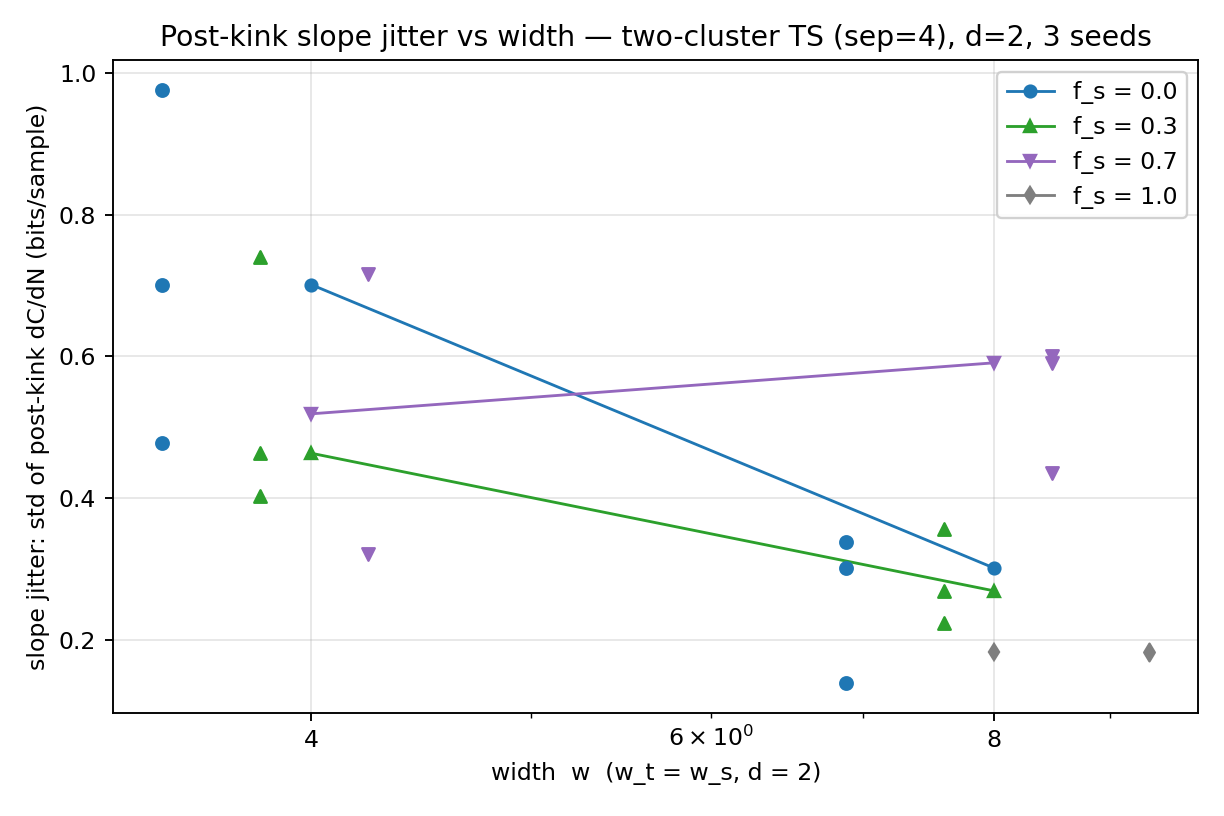
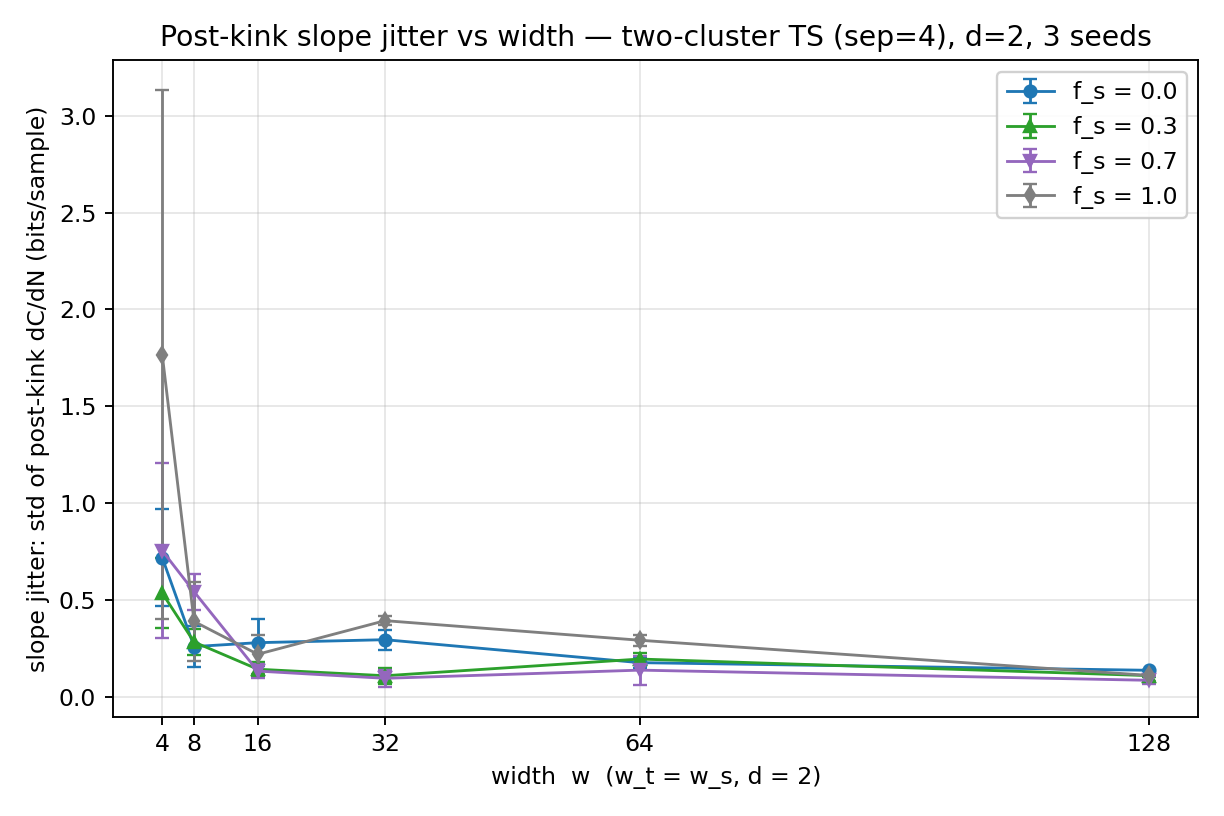
Add width_ts_sweep full report and complete figures (w=4..128)

diff --git a/experiments/quantify-structure-in-data/20260821_2032_width_ts_sweep/summary.html b/experiments/quantify-structure-in-data/20260821_2032_width_ts_sweep/summary.html
@@ -1,0 +1,172 @@
+<!DOCTYPE html>
+<html lang="zh-CN">
+<head>
+<meta charset="UTF-8">
+<title>实验总结 — 双簇 Teacher-Student 协议下 C~N 曲线随宽度的变化</title>
+<style>
+  body { font-family: "Segoe UI", "Microsoft YaHei", sans-serif; max-width: 960px;
+         margin: 0 auto; padding: 24px 32px; color: #222; line-height: 1.65; }
+  h1 { font-size: 1.5em; border-bottom: 2px solid #333; padding-bottom: 8px; }
+  h2 { font-size: 1.2em; margin-top: 2em; border-bottom: 1px solid #bbb;
+       padding-bottom: 4px; }
+  h3 { font-size: 1.05em; margin-top: 1.4em; }
+  table { border-collapse: collapse; margin: 12px 0; font-size: 0.92em; }
+  th, td { border: 1px solid #999; padding: 5px 10px; text-align: left; }
+  th { background: #eee; }
+  code { background: #f2f2f2; padding: 1px 5px; border-radius: 3px;
+         font-family: Consolas, monospace; font-size: 0.9em; }
+  pre { background: #f6f6f6; border: 1px solid #ddd; border-radius: 6px;
+        padding: 12px 16px; overflow-x: auto; font-size: 0.85em; }
+  pre code { background: none; padding: 0; }
+  figure { margin: 18px 0; text-align: center; }
+  figure img { max-width: 100%; border: 1px solid #ddd; border-radius: 4px; }
+  figcaption { font-size: 0.95em; color: #333; margin-top: 8px; }
+  figcaption .fig-label { font-weight: 700; color: #111; margin-right: 6px; }
+  .note { background: #fbf8e8; border-left: 4px solid #d8c34a;
+          padding: 8px 14px; margin: 12px 0; font-size: 0.92em; }
+  ul { margin: 6px 0; }
+</style>
+</head>
+<body>
+
+<h1>实验总结：双簇 Teacher-Student 协议下 C~N 曲线随 Teacher/Student 宽度的变化</h1>
+
+<p><b>运行目录</b>：<code>experiments/20260821_2032_width_ts_sweep</code>（远程 cephfs）；
+<b>脚本</b>：<code>width_ts_sweep.py</code>（run 目录内留有副本）；<b>日期</b>：2026-08-21 至 2026-08-22。</p>
+
+<h2>1. 实验任务</h2>
+<p>在双簇（two-cluster）teacher-student 协议下，当 teacher 与 student 等宽（w<sub>t</sub> = w<sub>s</sub> = w）、深度均为 2 时，对 6 个宽度 w ∈ {4, 8, 16, 32, 64, 128}、4 个结构比例 f<sub>s</sub> ∈ {0.0, 0.3, 0.7, 1.0}，扫描数据集大小 N，记录训练结束后学生记住的信息量 C 随 N 变化的曲线（C~N 曲线），并量化曲线拐点之后相邻点斜率的抖动（slope jitter）。</p>
+
+<h2>2. 实验设置（协议）</h2>
+
+<h3>2.1 数据生成（双簇协议，与 20260819 twocluster 运行一致）</h3>
+<ul>
+  <li><b>输入维数 D = 10，类别数 V = 10</b>（log<sub>2</sub>V ≈ 3.322 bits/样本）。</li>
+  <li>每个 seed 随机取一个单位向量 u，两个簇中心为 μ<sub>A</sub> = +(sep/2)·u、μ<sub>B</sub> = −(sep/2)·u，<b>sep = 4.0</b>。样本 x = μ<sub>c</sub> + z，z ~ N(0, I<sub>D</sub>)。由于两簇中心分离，样本属于哪个簇可以从 x 上读出来。</li>
+  <li>训练集共 N 个样本：前 round(f<sub>s</sub>·N) 个来自簇 A（"结构化"部分），标签由 teacher 网络给出；其余 N − round(f<sub>s</sub>·N) 个来自簇 B（"随机"部分），标签为均匀随机整数。</li>
+  <li><b>验证集</b>：200 个来自簇 A 的新样本 + teacher 标签。</li>
+  <li>数据非嵌套：每个 (seed, N) 独立抽样；每个 seed 对应一个独立初始化的 teacher。</li>
+  <li>随机数种子（与 20260819 运行逐行一致）：teacher 初始化 <code>torch.manual_seed(seed)</code>；簇中心生成器 <code>seed*7919+13</code>；训练数据生成器 <code>seed*1000003+N</code>；验证集生成器 <code>seed+777</code>；student 初始化 <code>set_seed(seed+1)</code>。</li>
+</ul>
+
+<h3>2.2 模型</h3>
+<ul>
+  <li><b>Teacher（TeacherMLPLN）</b>：bias-free Linear → LayerNorm → ReLU 的隐层块 × d<sub>t</sub> = 2，之后接 BatchNorm1d 头（BN 头）+ bias-free Linear 投影到 V 类。BN 头在 batch 维上对每个类别的 logit 归一化，使 teacher 的 argmax 标签近似类别平衡（每样本标签信息量 ≈ log<sub>2</sub>V）。teacher 参数生成后冻结。</li>
+  <li><b>Student（StudentMLPLN）</b>：同样的 Linear → LayerNorm → ReLU 隐层块 × d<sub>s</sub> = 2，最后直接接 bias-free Linear 读出到 V 类（无 BN 头）。</li>
+  <li>两个模型类定义逐行复制自 20260819 运行的 <code>run.py</code>（当时 cephfs 上的 <code>protocols/strucfrac.py</code> 版本较旧，不含 LN 模型，因此本脚本自包含）。</li>
+  <li><b>teacher 标签的 batch 依赖</b>：teacher 在生成标签时置于 train 模式，对"簇 A 训练样本 + 验证集样本"整体做一次前向，BN 头的 batch 统计由这批数据计算（与 N 无关的部分固定）；生成标签后 teacher 回到 eval 模式。</li>
+</ul>
+
+<h3>2.3 训练</h3>
+<ul>
+  <li>全批量 Adam，lr = 1e-3，cosine 衰减到 0，<b>30000 epochs，无早停</b>。</li>
+  <li>训练过程中在约 60 个对数间隔的 checkpoint 记录完整曲线：train loss、结构化/随机部分的分别 loss（l1/l2）与精确记忆比例（em1/em2）、验证 loss 与验证准确率。</li>
+</ul>
+
+<h3>2.4 运行规模与执行</h3>
+<ul>
+  <li><b>seeds</b>：{1000, 1007, 1014}；探针阶段只用 seed = 1000。</li>
+  <li><b>总 run 数 708</b>：w ∈ {4,8,16,32} 的 468 runs 在 60 核 CPU 机器（10.230.1.20）上以 28 进程池完成（每进程 torch 2 线程）；w ∈ {64,128} 的 240 runs 在 H100 GPU 机器（10.230.1.34）上以 12 进程池共用一张 GPU 完成。</li>
+  <li>每 (w, f<sub>s</sub>) 组完成后立即将 per-run JSON 追加写入 <code>results/main_runs.json</code> 作为 checkpoint，中断后续跑自动跳过已完成的组。</li>
+</ul>
+
+<h2>3. 代码实现（两阶段网格）</h2>
+
+<h3>3.1 阶段一：探针（probe）</h3>
+<p>目的：为每个宽度定位 f<sub>s</sub> = 0（纯随机标签）曲线的容量拐点 N*<sub>0</sub>。对每个宽度，在 [max(16, w), 200·w] 内取 12 个对数等间隔的 N，只跑 f<sub>s</sub> = 0、seed = 1000（每宽度 12 runs，共 72 runs）。对得到的 C~N 曲线做连续两段线性拟合（见 4.2），拟合的拐点位置即 N*<sub>0</sub>。实测结果：</p>
+<table>
+  <tr><th>w</th><th>4</th><th>8</th><th>16</th><th>32</th><th>64</th><th>128</th></tr>
+  <tr><td>N*<sub>0</sub></td><td>47</td><td>130</td><td>466</td><td>932</td><td>3018</td><td>9769</td></tr>
+  <tr><td>拟合 R²</td><td>0.63</td><td>0.95</td><td>0.98</td><td>0.99</td><td>0.999</td><td>0.999</td></tr>
+</table>
+
+<h3>3.2 阶段二：主扫描（main）</h3>
+<p>每个宽度的 N 网格围绕自己的 N*<sub>0</sub> 生成，共 10 个点（w = 4 时因下限 16 合并为 9 点），同一宽度内 4 个 f<sub>s</sub> 共享该网格：</p>
+<ul>
+  <li>拐点前 3 点：N*<sub>0</sub> × {1/8, 1/4, 1/2}（下限 16）；</li>
+  <li>拐点处 1 点：N*<sub>0</sub>；</li>
+  <li>拐点后 6 点：N*<sub>0</sub> × {1.5, 2.1, 2.9, 4.1, 5.8, 8.0}（上限 80000）。</li>
+</ul>
+<table>
+  <tr><th>w</th><th>N 网格（实际取整后）</th></tr>
+  <tr><td>4</td><td>16, 24, 47, 70, 99, 136, 193, 273, 376</td></tr>
+  <tr><td>8</td><td>16, 32, 65, 130, 195, 273, 377, 533, 754, 1040</td></tr>
+  <tr><td>16</td><td>58, 116, 233, 466, 699, 979, 1351, 1911, 2703, 3728</td></tr>
+  <tr><td>32</td><td>116, 233, 466, 932, 1398, 1957, 2703, 3821, 5406, 7456</td></tr>
+  <tr><td>64</td><td>377, 754, 1509, 3018, 4527, 6338, 8752, 12374, 17504, 24144</td></tr>
+  <tr><td>128</td><td>1221, 2442, 4884, 9769, 14654, 20515, 28330, 40053, 56660, 78152</td></tr>
+</table>
+<p>每个 (w, f<sub>s</sub>, N) 组合跑 3 个 seed，共 6 宽 × 4 f<sub>s</sub> × ~10 N × 3 seeds ≈ 708 runs（含探针 72）。</p>
+
+<h3>3.3 输出文件</h3>
+<ul>
+  <li><code>results/probe_runs.json</code>、<code>results/main_runs.json</code>：每个 run 一条记录，含最终 train loss、C_bits、分区指标、val 指标、运行时长，以及全部 checkpoint 的完整 loss 曲线；</li>
+  <li><code>results/grids.json</code>：各宽度的 N*<sub>0</sub> 与主网格；</li>
+  <li><code>results/summary.json</code>：每条 (w, f<sub>s</sub>, seed) 曲线的分段拟合参数与 jitter；</li>
+  <li><code>figures/</code>：8 张图（见第 5 节）。</li>
+</ul>
+
+<h2>4. 数据与量的定义</h2>
+
+<h3>4.1 学习比特数 C（C~N 曲线的纵轴）</h3>
+<p>对每个 run，取训练结束（30000 epochs）时的全训练集交叉熵 L<sub>train</sub>，定义每样本学习比特数与总量：</p>
+<pre><code>bits/sample = max(ln V − L_train, 0) / ln 2
+C (bits)    = bits/sample × N</code></pre>
+<p>其中 ln V 是 V 类均匀标签的熵（交叉熵的随机水平）。L<sub>train</sub> 越低说明学生对训练标签拟合得越死，C 越大。每条 C~N 曲线就是一个 (w, f<sub>s</sub>, seed) 下约 10 个 N 值对应的 C 值连成的折线。</p>
+
+<h3>4.2 连续两段线性拟合（虚线与拐点的来源）</h3>
+<p>对每条 C~N 曲线，在所有内部网格点上搜索候选拐点 x*，用设计矩阵 [1, N, max(N−x*, 0)] 做最小二乘，取残差最小的 x* 作为拐点 N*。输出参数：segment-1 斜率 s1、segment-2 斜率 s2、拐点位置、R²。图中的同色虚线画的是拟合的 segment-2 段（从 N* 到最大 N）。</p>
+
+<h3>4.3 斜率抖动（slope jitter）</h3>
+<p>对一条 C~N 曲线，取拐点 N* <b>之后</b>的所有网格点，计算相邻两点之间的斜率 s<sub>i</sub> = (C<sub>i+1</sub> − C<sub>i</sub>) / (N<sub>i+1</sub> − N<sub>i</sub>)（单位 bits/sample），jitter = 这些斜率的标准差。每条曲线用自己的拟合拐点；若拟合退化（拐点落在网格末尾、拐后不足 3 点，f<sub>s</sub> = 1 的曲线常如此），则退回使用同宽度 f<sub>s</sub> = 0 曲线的拐点作为阈值。jitter 图中每个数据点是 3 个 seed 的均值，error bar 为 3 个 seed 的标准差。</p>
+<div class="note">注意：各宽度网格的拐后点间隔 ΔN 随宽度同比放大（网格按 N*<sub>0</sub> 的倍数生成），大宽度下每个斜率是对更大 N 窗口的平均。</div>
+
+<h3>4.4 训练损失斜率抖动（train-loss slope jitter）</h3>
+<p>C 由 L<sub>train</sub> 乘以 N 得到，逐点噪声随之被放大 N 倍。为去掉这一放大作用，对同一批 run 直接取训练结束时的 L<sub>train</sub> 对 N 的折线，在拐点之后（阈值与 4.3 相同，含 f<sub>s</sub> = 0 回退）计算相邻点斜率 s<sub>i</sub> = (L<sub>i+1</sub> − L<sub>i</sub>) / (N<sub>i+1</sub> − N<sub>i</sub>)，取标准差，单位 nats/sample（L<sub>train</sub> 为自然对数交叉熵）。</p>
+
+<h2>5. 图</h2>
+
+<h3>5.1 C~N 曲线（每宽度一张，共 6 张）</h3>
+<ul>
+  <li><b>横轴</b>：数据集大小 N（线性）；<b>纵轴</b>：学习比特数 C（bits）。</li>
+  <li><b>实线+标记</b>：seed = 1000 的实测数据点，4 种颜色/标记对应 4 个 f<sub>s</sub>（蓝圆 0.0、绿三角 0.3、紫倒三角 0.7、灰菱形 1.0）。</li>
+  <li><b>同色虚线</b>：该曲线连续两段线性拟合的 segment-2 段。</li>
+</ul>
+
+<figure><img src="figures/C_vs_N_by_fs_w4.png" alt="w=4"><figcaption><span class="fig-label">Figure 1.</span>C~N 曲线，w = 4</figcaption></figure>
+<figure><img src="figures/C_vs_N_by_fs_w8.png" alt="w=8"><figcaption><span class="fig-label">Figure 2.</span>C~N 曲线，w = 8</figcaption></figure>
+<figure><img src="figures/C_vs_N_by_fs_w16.png" alt="w=16"><figcaption><span class="fig-label">Figure 3.</span>C~N 曲线，w = 16</figcaption></figure>
+<figure><img src="figures/C_vs_N_by_fs_w32.png" alt="w=32"><figcaption><span class="fig-label">Figure 4.</span>C~N 曲线，w = 32</figcaption></figure>
+<figure><img src="figures/C_vs_N_by_fs_w64.png" alt="w=64"><figcaption><span class="fig-label">Figure 5.</span>C~N 曲线，w = 64</figcaption></figure>
+<figure><img src="figures/C_vs_N_by_fs_w128.png" alt="w=128"><figcaption><span class="fig-label">Figure 6.</span>C~N 曲线，w = 128</figcaption></figure>
+
+<h3>5.2 斜率抖动图（2 张，同一数据的两种纵轴）</h3>
+<ul>
+  <li><b>横轴</b>：宽度 w（线性，w<sub>t</sub> = w<sub>s</sub>，d = 2）；<b>纵轴</b>：slope jitter（bits/sample），第一张线性、第二张对数。</li>
+  <li><b>每个宽度 4 个点</b>：对应 4 个 f<sub>s</sub>（颜色/标记同上），点的纵坐标为 3 个 seed 的 jitter 均值，<b>error bar</b> 为 3 个 seed 的标准差。</li>
+  <li><b>线</b>：同一 f<sub>s</sub> 的点按宽度顺序相连。</li>
+  <li>每个点参与计算的斜率个数记录在 <code>results/summary.json</code> 的 <code>n_slopes</code> 字段（f<sub>s</sub> 越大，拐点越靠右，拐后点数越少）。</li>
+</ul>
+
+<figure><img src="figures/slope_jitter_vs_width.png" alt="jitter linear"><figcaption><span class="fig-label">Figure 7.</span>slope jitter vs width（纵轴线性）</figcaption></figure>
+<figure><img src="figures/slope_jitter_vs_width_logy.png" alt="jitter log-y"><figcaption><span class="fig-label">Figure 8.</span>slope jitter vs width（纵轴对数）</figcaption></figure>
+
+<h3>5.3 训练损失斜率抖动图（2 张，同一数据的两种纵轴）</h3>
+<ul>
+  <li><b>横轴</b>：宽度 w（线性）；<b>纵轴</b>：train-loss slope jitter（nats/sample），第一张线性、第二张对数。</li>
+  <li>点、error bar、连线的含义与 5.2 相同；拐点阈值与 C 版 jitter 完全一致（含 f<sub>s</sub> = 0 回退）。</li>
+</ul>
+
+<figure><img src="figures/slope_jitter_loss_vs_width.png" alt="loss jitter linear"><figcaption><span class="fig-label">Figure 9.</span>train-loss slope jitter vs width（纵轴线性）</figcaption></figure>
+<figure><img src="figures/slope_jitter_loss_vs_width_logy.png" alt="loss jitter log-y"><figcaption><span class="fig-label">Figure 10.</span>train-loss slope jitter vs width（纵轴对数）</figcaption></figure>
+
+<h2>6. 数值记录（seed = 1000，来自 summary.json 与探针拟合）</h2>
+<ul>
+  <li>f<sub>s</sub> = 0 曲线的容量拐点（探针拟合）：N*<sub>0</sub> = 47 / 130 / 466 / 932 / 3018 / 9769（w = 4/8/16/32/64/128）；探针拟合的 segment-1 斜率 s1 ≈ 2.1 / 3.1 / 2.8 / 3.5 / 3.3 / 3.2 bits/sample（log<sub>2</sub>V = 3.32）。</li>
+  <li>f<sub>s</sub> = 0 曲线在最大 N 处的 C 值（约等于平台高度）：w=4 约 100 bits、w=8 约 450、w=16 约 1100、w=32 约 3000、w=64 约 9000、w=128 约 26000 bits。</li>
+  <li>f<sub>s</sub> = 1 曲线在各自最大 N 处的 C/N：w=16 约 2.66、w=32 约 2.95、w=64 约 3.07、w=128 约 3.24 bits/sample（log<sub>2</sub>V = 3.32）。</li>
+  <li>jitter 均值（3 seeds）：w=128 处 4 个 f<sub>s</sub> 均落在约 0.08–0.14 bits/sample；w=4 的 f<sub>s</sub> = 1.0 均值为 1.77（seed 间标准差约 1.4）。</li>
+</ul>
+
+</body>
+</html>

diff --git a/experiments/quantify-structure-in-data/index.html b/experiments/quantify-structure-in-data/index.html
@@ -63,7 +63,7 @@ L_train，计算 learned-bits 曲线 <code>C(N) = (log V − L_train)·N / log 2
   <li><a href="#r7">20260818_2113 — 双簇输入 teacher-student，双侧 LN，早停</a></li>
   <li><a href="#r8">20260819_1738 — 双簇 TS，无早停，单 seed（CPU）</a></li>
   <li><a href="#r9">20260820_0824 — Oracle-gate + 线性单纯形 teacher</a></li>
-  <li><a href="#r10">20260821_2032 — 双簇 TS 宽度扫描 w∈{4, 8}（仅图）</a></li>
+  <li><a href="#r10">20260821_2032 — 双簇 TS 宽度扫描 w∈{4,…,128}（含完整报告页）</a></li>
 </ol>
 </div>
 
@@ -354,26 +354,28 @@ L_train，计算 learned-bits 曲线 <code>C(N) = (log V − L_train)·N / log 2
 <!-- ══════════════════════════ run 10 ══════════════════════════ -->
 <h2 id="r10">10. 20260821_2032_width_ts_sweep</h2>
 <table class="meta">
-  <tr><td>协议</td><td>双簇输入 teacher-student（sep=4，协议同实验 7），teacher 与 student 均带 LayerNorm，宽度扫描 w_t = w_s ∈ {4, 8}，d=2。f_s ∈ {0, 0.3, 0.7, 1.0}，3 seeds；w=4 时 N 至 380，w=8 时 N 至 1050</td></tr>
-  <tr><td>备注</td><td>该目录在 mirror 中只有图（无 results/summary.json），以上配置信息读自图题与坐标轴</td></tr>
+  <tr><td>协议</td><td>双簇输入 teacher-student（sep=4，协议同实验 7），teacher 与 student 均带 LayerNorm，w_t = w_s = w，深度 d_t = d_s = 2。宽度 w ∈ {4, 8, 16, 32, 64, 128}，f_s ∈ {0, 0.3, 0.7, 1.0}，seeds {1000, 1007, 1014}</td></tr>
+  <tr><td>N 网格</td><td>两阶段：先以 f_s=0 探针（seed=1000）定各宽度容量拐点 N*₀ = 47 / 130 / 466 / 932 / 3018 / 9769，再围绕 N*₀ 生成每宽度 10 点主网格（拐点前 3 + 拐点 1 + 拐点后 6），同宽度内 4 个 f_s 共享</td></tr>
+  <tr><td>规模 / 硬件</td><td>共 708 runs：w ≤ 32 的 468 runs 在 60 核 CPU（28 进程池）；w ∈ {64, 128} 的 240 runs 在 H100 GPU（12 进程池）。无早停，跑满 30k cosine</td></tr>
+  <tr><td>完整报告</td><td><a href="20260821_2032_width_ts_sweep/summary.html">summary.html</a> — 实验设置、代码实现、量的定义、全部 10 张图的详细说明</td></tr>
 </table>
 
 <figure>
-  <img src="20260821_2032_width_ts_sweep/figures/C_vs_N_by_fs_w4.png" alt="C vs N w=4">
-  <figcaption><b>C_vs_N_by_fs_w4.png</b> — w_t = w_s = 4 的 C~N 曲线（seed=1000）。x 轴：数据集大小 N（线性）；y 轴：learned bits C（bits）。
-  每个 f_s 一条线：实线+marker 为实测点，同色虚线为分段线性拟合第二段。</figcaption>
+  <img src="20260821_2032_width_ts_sweep/figures/C_vs_N_by_fs_w32.png" alt="C vs N w=32">
+  <figcaption><b>C_vs_N_by_fs_w32.png</b> — w_t = w_s = 32 的 C~N 曲线（seed=1000）。x 轴：数据集大小 N（线性）；y 轴：learned bits C（bits）。
+  每个 f_s 一条线：实线+marker 为实测点，同色虚线为分段线性拟合第二段。其余 5 个宽度的同型图见报告页。</figcaption>
 </figure>
 <figure>
-  <img src="20260821_2032_width_ts_sweep/figures/C_vs_N_by_fs_w8.png" alt="C vs N w=8">
-  <figcaption><b>C_vs_N_by_fs_w8.png</b> — 同上，w_t = w_s = 8。</figcaption>
+  <img src="20260821_2032_width_ts_sweep/figures/slope_jitter_vs_width_logy.png" alt="slope jitter vs width log-y">
+  <figcaption><b>slope_jitter_vs_width_logy.png</b> — x 轴：宽度 w（线性）；y 轴：slope jitter（bits/sample，对数坐标），
+  即拐点之后相邻数据点间 dC/dN 的标准差。每个宽度 4 个点对应 4 个 f_s（3 seeds 均值），error bar 为 seed 间标准差，同色连线。</figcaption>
 </figure>
 <figure>
-  <img src="20260821_2032_width_ts_sweep/figures/slope_jitter_vs_width.png" alt="slope jitter vs width">
-  <figcaption><b>slope_jitter_vs_width.png</b> — x 轴：宽度 w（对数坐标，w_t = w_s，d=2）；
-  y 轴：slope jitter，即拐点之后相邻数据点间 dC/dN 的标准差（bits/sample）。散点为各 f_s × seed 的取值（3 seeds），实线为每 f_s 在 w=4 与 w=8 之间的线性趋势。</figcaption>
+  <img src="20260821_2032_width_ts_sweep/figures/slope_jitter_loss_vs_width_logy.png" alt="loss slope jitter vs width log-y">
+  <figcaption><b>slope_jitter_loss_vs_width_logy.png</b> — 同上，但直接在最终 train loss 上计算相邻点 dL/dN 的标准差（nats/sample，对数坐标），去掉 C = (·)·N 的 N 倍放大。</figcaption>
 </figure>
 
-<p class="note">生成时间：2026-08-22。本页仅公开 figures；原始数据（results/summary.json 与 checkpoint 内的 loss 历史）保存在本地 mirror
+<p class="note">生成时间：2026-08-22（报告页 2026-08-31 更新）。本页仅公开 figures；原始数据（results/summary.json 与 checkpoint 内的 loss 历史）保存在本地 mirror
 与远端 cephfs 同名 experiments 目录，未随本站发布。</p>
 
 </body>
